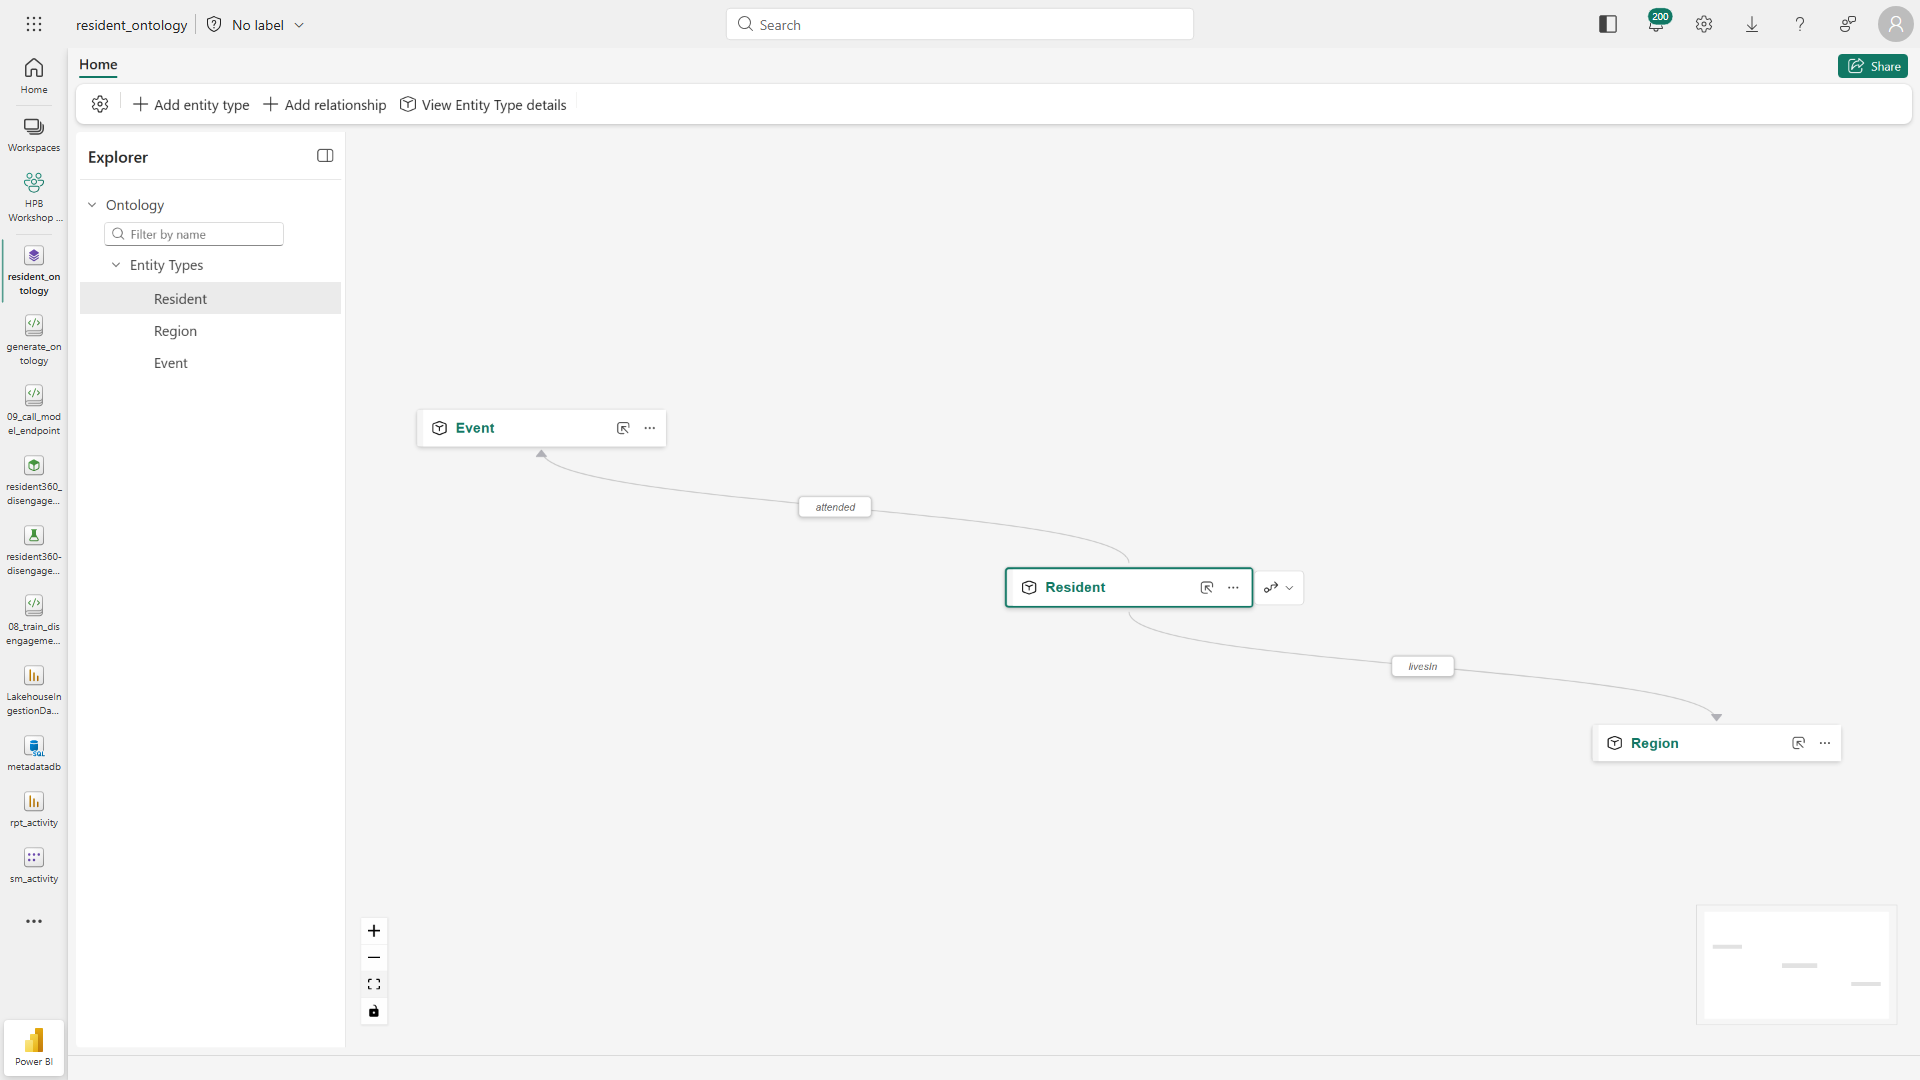
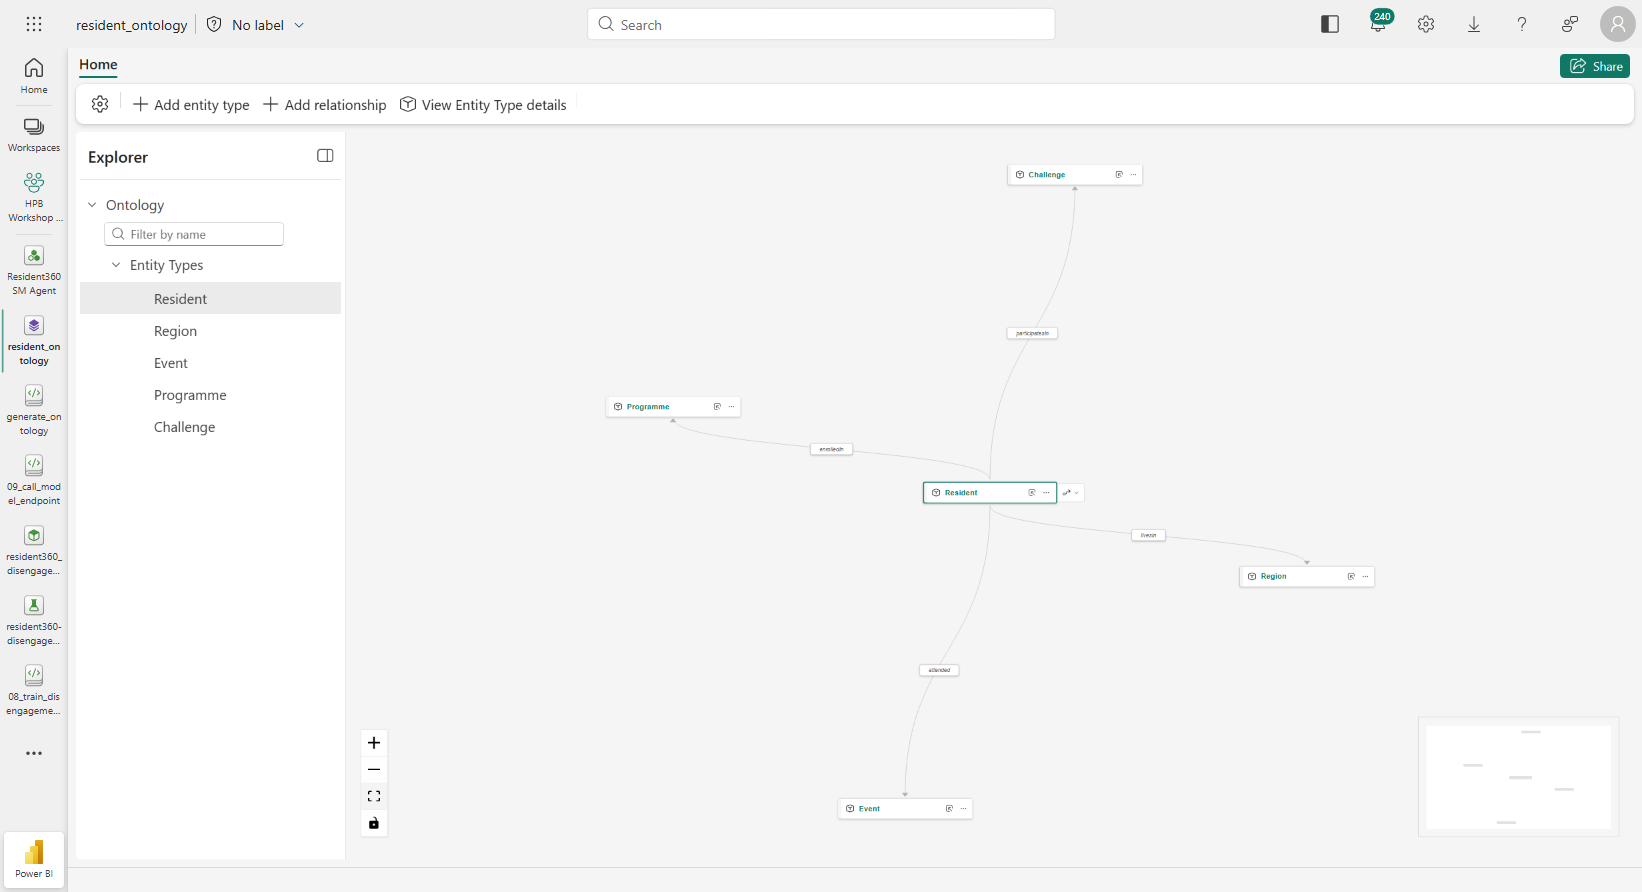
Lab 4: rebuild 5-entity ontology graph + ontology-agent multi-hop answer screenshots; robust headline Q1 (region traversal) with haze/disengaged facilitator caveats

diff --git a/lab4-ontology-dataagent/README.md b/lab4-ontology-dataagent/README.md
@@ -90,7 +90,7 @@ You're not designing anything — simply applying the spec the notebook generate
 
 > **Done when you see:** the entity nodes joined by the named edges on the canvas (the editor auto-saves — no publish).
 
-![resident_ontology graph — Resident joined to Event (attended) and Region (livesIn), with Event → Region (heldIn)](../docs/images/lab4/lab4-02-ontology-graph.png)
+![resident_ontology graph — Resident at the hub joined to Region (livesIn), Event (attended), Programme (enrolledIn) and Challenge (participatesIn); Event also joins Region (heldIn)](../docs/images/lab4/lab4-02-ontology-graph.png)
 
 > **Editor tips (preview):** bind **Lakehouse tables only**; on the **first (static)** binding set **Timestamp = None** — and set it **last**, right before Save, because selecting the entity key can reset the Timestamp field back to empty. Each entity: *Configure entity type → Add properties from data → Add data binding → Lakehouse table → select table → Define entity type key → Timestamp = None → Save.* For a **second (timeseries) binding** (Resident, Region): *Manage property bindings → Add binding and properties → Add data binding → Lakehouse table → select the fact table → select the **date column** as Timestamp → delete any duplicated column → Save.* Each relationship: *Add relationship → name/origin/target → Create → View Relationship Type details → Browse available sources → select the mapping table → map both keys → Save.*
 
@@ -118,21 +118,27 @@ You're not designing anything — simply applying the spec the notebook generate
 
 1. Ask **both** agents the same multi-hop question:
 
-   > *"For residents who attended events held in hazy-air regions, how many are disengaged — and which regions are those?"*
+   > *"How many residents attended events in each region? Return a chart by region."*
 
-2. Read the **SM agent's** answer: it only has activity data, so it can't join events + air quality — it declines or answers narrowly.
+   This traverses **Resident → attended → Event → heldIn → Region** — a join the flat, activity-only agent cannot make.
+
+2. Read the **SM agent's** answer: it only has activity data, so it can't join residents to events and regions — it declines or answers narrowly.
 
 ![Semantic-model agent declines — "unable to retrieve… a limitation in event-level or haze data connection in the current dataset"](../docs/images/lab4/lab4-04-sm-answer.png)
 
-3. Read the **Ontology agent's** answer: it traverses **Resident → attended → Event → heldIn → Region (`region_is_hazy`)** and answers cleanly, grouped by region.
+3. Read the **Ontology agent's** answer: it traverses **Resident → attended → Event → heldIn → Region**, aggregates by region, and returns a clean bar chart in ~25–30 sec.
 
 ![Ontology agent traverses Resident → Event → Region and answers the multi-hop question the flat agent could not](../docs/images/lab4/lab4-03-ontology-answer.png)
 
 4. Try 2–3 more questions from the bank and **generate a visual** for each.
 
-> **Note:** a multi-hop ontology answer takes ~60–90 sec (plan → query the graph → chart). It reports by group, never by individual `resident_id`.
+> **Note:** a multi-hop ontology answer takes ~30–90 sec (plan → query the graph → chart). It reports by group, never by individual `resident_id`.
 
-> ⚠ **Facilitator note — select a Q1 that returns data.** The `is_disengaged` flag is defined as *low steps **AND no events attended** AND a dropped programme*, so "**disengaged** residents who **attended** events" is an empty set — an agent will correctly answer *"no data."* For the headline win to land, ask the multi-hop **without** the disengaged filter, e.g. *"For residents who attended events in hazy-air regions, how many attended per region — and which regions are hazy?"* (still traverses Resident → attended → Event → heldIn → Region). The **contrast still holds**: the SM agent can't answer either phrasing (no event/haze data); the ontology agent can.
+> ⚠ **Facilitator note — choose questions that resolve on the graph.** Two easy traps:
+> - **Contradictory filters.** The `is_disengaged` flag means *low steps **AND no events attended** AND a dropped programme*, so "**disengaged** residents who **attended** events" is an empty set — the agent correctly answers *"no data."* Ask the traversal **without** the disengaged filter (as in step 1).
+> - **Filtering on an unbound property.** `region_is_hazy` lives on the region reference data, not on the tables bound to the **Region** entity in this ontology, so a haze-filtered question (e.g. *"…events in hazy-air regions…"*) may return a *"couldn't retrieve the data"* error. Keep the headline question to the region traversal above; treat haze filtering as an extension once **Region** is also bound to a table carrying `region_is_hazy`.
+>
+> The **contrast still holds** either way: the SM agent can't traverse residents → events → regions at all; the ontology agent can.
 
 ---
 

diff --git a/lab4-ontology-dataagent/assets/data_agent_questions.md b/lab4-ontology-dataagent/assets/data_agent_questions.md
@@ -14,12 +14,17 @@ programme, event or challenge.
 
 ## Question bank
 
-### Guided path (3-entity ontology: Resident · Region · Event) — the headline multi-hop
-These traverse **Resident → attended → Event → heldIn → Region** and use `region_is_hazy`, so the flat Lab 1
-agent (activity only) can't answer them.
-1. **For residents who attended events held in hazy-air regions, how many are disengaged — and which regions are those?**  *(the headline win)*
-2. Which regions are hazy, and how many events do their residents attend on average?
-3. Do residents in hazy regions attend fewer events than residents in clear-air regions?
+### Guided path (Resident · Event · Region) — the headline multi-hop
+These traverse **Resident → attended → Event → heldIn → Region**, so the flat Lab 1 agent (activity only) can't
+answer them.
+1. **How many residents attended events in each region? Return a chart by region.**  *(the headline win — resolves reliably on the graph)*
+2. Do residents attend more events in some regions than others? Show the top and bottom regions.
+3. On average, how many events does a resident attend, broken down by region?
+
+> ⚠ Filtering on **`region_is_hazy`** (e.g. *"…events in hazy-air regions…"*) needs the **Region** entity bound to a
+> table that carries the haze flag. In the base ontology Region is bound to `resident_360` + `fact_event_attendance`,
+> which don't expose it, so a haze-filtered question may error with *"couldn't retrieve the data."* Add that binding
+> first if you want the haze cut.
 
 ### Full graph (challenge — after you add Programme & Challenge)
 Needs the 5-entity ontology from the challenge.
@@ -41,7 +46,7 @@ Needs the 5-entity ontology from the challenge.
 
 ## Compare vs the Lab 1 agent
 Ask **Q1** to both the **Lab 1 agent** (`Resident360 Agent`, activity-only) and the **ontology agent**. The Lab 1
-agent has no event or air-quality data, so it can't join those domains; the ontology agent traverses
+agent has no event or region data, so it can't join those domains; the ontology agent traverses
 Resident → Event → Region and answers directly, grouped by region. This is the headline "why an ontology" moment.
 After the challenge (5-entity graph), Q4 shows the same win across programmes and challenges.
 
